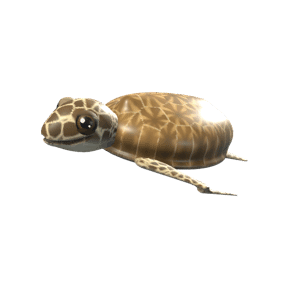
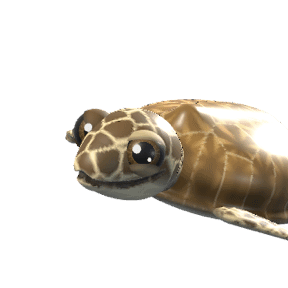
Wal und Schildkroete: sehen einen an, naeher im Kreis
Beide waren nur ~30 Grad zum Betrachter gedreht; ihre seitlichen Augen
zeigten mit der Lidoeffnung zur Seite und lasen sich als Seitenblick.
Jetzt Dreiviertelansicht, Augen weiter vorn, beim Wal groesser.

Lange Tiere wurden nach der Breite zugeschnitten und wirkten weit weg:
NAEHER in figuren_holen.py schneidet enger und zum Kopf hin zu.

vorderflaeche begrenzt den Suchstrahl (lief sonst ins Unendliche und
brach das Rendern ab).

Pruef-alles: alle 9 bestanden.

Changed region(s): [[0.125, 0.3125, 1.0, 0.8438]]

diff --git a/tools/figuren_rendern/Tiere.swift b/tools/figuren_rendern/Tiere.swift
@@ -869,11 +869,13 @@ func wal() -> (SCNNode, Float, V) {
         r: 0.030, farbe: hex("#1A2C40"), staerke: 0.8))
     let w = SCNNode(); w.addChildNode(kopfKnoten(koerper, grenze: 2.2, n: 200))
     for sz: Float in [-1, 1] {
-        seitenAuge(w, koerper, x: 0.88, y: -0.02, tiefe: 0.035, sz: sz, r: 0.085,
+        // Weiter vorn und groesser als beim echten Wal: Nur ein Auge, dessen Oeffnung zum Betrachter zeigt,
+        // liest sich als Blick zu ihm (Auftrag des Inhabers: alle sehen einen an).
+        seitenAuge(w, koerper, x: 1.04, y: 0.0, tiefe: 0.04, sz: sz, r: 0.115,
                    iris: NSColor(calibratedRed: 0.14, green: 0.11, blue: 0.10, alpha: 1), pupille: 0.7,
                    Ausdruck(oben: 0.22, unten: 0.30, funke: 1.5))
     }
-    w.eulerAngles = SCNVector3(-0.15, .pi + 0.55, 0)
+    w.eulerAngles = SCNVector3(-0.15, .pi + 1.0, 0)
     return (w, 9.0, V(-0.25, 0.0, 0))
 }
 
@@ -980,11 +982,11 @@ func schildkroete() -> (SCNNode, Float, V) {
     w.addChildNode(kopfKnoten(panzerK, grenze: 2.0, n: 200))
     w.addChildNode(kopfKnoten(hautK, grenze: 2.0, n: 200))
     for sz: Float in [-1, 1] {
-        seitenAuge(w, hautK, x: 1.42, y: 0.24, tiefe: 0.05, sz: sz, r: 0.13,
+        seitenAuge(w, hautK, x: 1.52, y: 0.21, tiefe: 0.05, sz: sz, r: 0.14,
                    iris: NSColor(calibratedRed: 0.36, green: 0.26, blue: 0.10, alpha: 1), pupille: 0.6,
                    Ausdruck(oben: 0.24, unten: 0.26, schraeg: 0.14, funke: 1.5))
     }
-    w.eulerAngles = SCNVector3(-0.35, .pi + 0.65, 0)
+    w.eulerAngles = SCNVector3(-0.35, .pi + 1.05, 0)
     return (w, 9.2, V(0.05, 0.0, 0))
 }
 

diff --git a/tools/figuren_rendern/Modell.swift b/tools/figuren_rendern/Modell.swift
@@ -220,6 +220,7 @@ func zellen(_ p: V, _ skala: Float) -> (rand: Float, wert: Float) {
 // Die Vorderflaeche eines Koerpers bei (x, y): von vorn bis zur Oberflaeche gehen.
 func vorderflaeche(_ k: Koerper, _ x: Float, _ y: Float, von: Float = 3) -> Float {
     var z = von
-    for _ in 0..<200 { let d = k.abstand(V(x, y, z)); if d < 0.001 { break }; z -= max(d, 0.002) }
-    return z
+    // Trifft der Strahl nichts, laeuft z sonst ins Unendliche (Absturz beim Umrechnen in Ganzzahlen).
+    for _ in 0..<200 { let d = k.abstand(V(x, y, z)); if d < 0.001 || z < -von { break }; z -= max(d, 0.002) }
+    return max(z, -von)
 }

diff --git a/tools/figuren_holen.py b/tools/figuren_holen.py
@@ -97,10 +97,17 @@ def sichtbar(b, pixel):
     return min(xs), max(xs) + 1, min(ys), max(ys) + 1
 
 
-def zuschneiden(b, h, pixel, rahmen):
+# Lange Tiere (Wal, Schildkroete) wirkten nach der laengeren Seite zugeschnitten "zu weit weg" (Inhaber):
+# naeher heran und zum Kopf hin verschoben; Schwanz und Hinterflossen schneidet der Kreis an.
+# (Faktor, Verschiebung x, y als Anteil des Ausschnitts; negativ = nach links/oben)
+NAEHER = {'wal': (1.55, -0.13, 0.02), 'schildkroete': (1.45, -0.25, -0.13)}
+
+
+def zuschneiden(b, h, pixel, rahmen, kennung=''):
     x0, x1, y0, y1 = rahmen
-    seite = round(max(x1 - x0, y1 - y0) / ALTER_ANTEIL)
-    mx, my = (x0 + x1) // 2, (y0 + y1) // 2
+    faktor, vx, vy = NAEHER.get(kennung, (1, 0, 0))
+    seite = round(max(x1 - x0, y1 - y0) / ALTER_ANTEIL / faktor)
+    mx, my = (x0 + x1) // 2 + round(vx * seite), (y0 + y1) // 2 + round(vy * seite)
     ax, ay = mx - seite // 2, my - seite // 2
     if ax < 0 or ay < 0 or ax + seite > b or ay + seite > h:
         sys.exit('Ausschnitt %r ragt ueber die Leinwand %dx%d — Leinwand in main.swift vergroessern.' % ((ax, ay, seite), b, h))
@@ -187,7 +194,7 @@ def main():
         if not os.path.exists(quelle):
             sys.exit('Fehlt: %s — erst tools/figuren_rendern/bauen.sh laufen lassen.' % quelle)
         with open(quelle, 'rb') as f: b, h, pixel = png_lesen(f.read())
-        b, h, pixel = zuschneiden(b, h, pixel, rahmen[kennung])
+        b, h, pixel = zuschneiden(b, h, pixel, rahmen[kennung], kennung)
         # Verkleinern ueber sips (Apples Bildwerkzeug, gute Filterung) — auf dem zugeschnittenen Bild,
         # damit jedes Tier dieselbe Groesse im Kreis bekommt.
         with tempfile.TemporaryDirectory() as tmp:

diff --git a/docs/ios-huelle-journal.md b/docs/ios-huelle-journal.md
@@ -7,12 +7,12 @@ gehoert ebenfalls hierher — nicht stillschweigend uebersprungen. Neueste Eintr
 
 ---
 
-## ÜBERGABE an die naechste Sitzung (Stand 2026-10-15, nach Runde 141)
+## ÜBERGABE an die naechste Sitzung (Stand 2026-10-15, nach Runde 142)
 
 **Lies NUR diesen Block.** Er genuegt allein; die Eintraege darunter sind Begruendungen zum
 Nachschlagen. Dazu `tools/xcode-CLAUDE.md` (liegt als `ios/App/CLAUDE.md` neben der `.xcodeproj`
 und wird von Xcode geladen) und die `CLAUDE.md` im Wurzelverzeichnis. Zuletzt vollstaendig
-durchgesehen nach Runde 141 — es gilt dieser Block, nicht aeltere Fassungen.
+durchgesehen nach Runde 142 — es gilt dieser Block, nicht aeltere Fassungen.
 
 ### Wie der Inhaber arbeitet
 
@@ -40,7 +40,8 @@ Regeln, die er gesetzt hat:
 
 | Runde | Commit | Inhalt |
 | --- | --- | --- |
-| 141 | — | Alle Tiere sehen in die Kamera (kein Blickversatz mehr); Wal als Buckelwal, Schildkroete als Suppenschildkroete, Dackel glattes Kurzhaar ohne Zunge |
+| 142 | — | Wal und Schildkroete: zum Betrachter gedreht, Augen weiter vorn, naeher zugeschnitten (`NAEHER` in `figuren_holen.py`) |
+| 141 | `f73cced` | Alle Tiere sehen in die Kamera (kein Blickversatz mehr); Wal als Buckelwal, Schildkroete als Suppenschildkroete, Dackel glattes Kurzhaar ohne Zunge |
 | 140 | `d24b541` | Schalenfell je Tier (`Fell`, `FellKarte`, Shader in `Szene.swift`) und Brauen als Wulst + Fellzeichnung (`mitBrauen`) |
 | 139 | `09693fa` | Tiere: je eigene Kopfhaltung (7 links, 5 rechts, teils geneigt), artgerechte Muender als Hautfalten (`mitMaul`), Zaehne/Zungen als `perle` |
 | 138 | `a07e240` | Schneller arbeiten: audit-i18n 4 Min. -> 1 s; Kommentare in src/ um ~30 % gekuerzt (gebaute App unveraendert) |
@@ -238,6 +239,27 @@ Branch `claude/lucenta-setup-browser-test-j6hn7f`, **nicht gepusht**, kein Pull 
 Arbeitsbaum sauber bis auf `ios/App/App.xcworkspace/xcshareddata/` (absichtlich unversioniert).
 
 ---
+
+## Runde 142 — Wal und Schildkroete sehen einen an und wirken nicht mehr weit weg
+
+**Rueckmeldung des Inhabers:** „Wal und Schildkroete gucken einen nicht an, und die sehen zu weit weg
+aus im Gegensatz zu den anderen Tieren."
+
+**Blick:** Seit Runde 141 zielen ihre Augen zwar auf die Kamera — aber sie sitzen seitlich am Kopf,
+und der Kopf war nur ~30° zum Betrachter gedreht. Die Lidoeffnung zeigte zur Seite, die Pupille
+lag an ihrem Rand: Das liest sich als Seitenblick, egal wohin der Augapfel zeigt. Jetzt: beide um
+~57–60° zum Betrachter gedreht (Dreiviertelansicht), Augen weiter vorn am Kopf; der Wal hat
+groessere Augen (0,115 statt 0,085), damit man den Blick ueberhaupt liest.
+
+**Abstand:** Der Zuschnitt richtet sich nach der laengeren Seite — bei langen Tieren die Breite,
+der Kopf wurde winzig. `NAEHER` in `figuren_holen.py`: Faktor und Verschiebung zum Kopf hin;
+Schwanz und Hinterflossen schneidet der Kreis an wie bei den Saeugetieren den Rumpf.
+Bei der Schildkroete dreimal nachgestellt (Kopf angeschnitten, dann zu hoch) — Schiedsrichter war
+die Vorschau im Kreis, nicht die Zahl.
+
+**Ein Absturz unterwegs:** `vorderflaeche` lief ins Unendliche, wenn der Strahl keine Haut traf
+(ueber dem weiter vorn sitzenden Auge der Schildkroete) → „Float value cannot be converted to
+Int32". Der Strahl ist jetzt begrenzt.
 
 ## Runde 141 — Blick in die Kamera; Wal, Schildkroete, Dackel realistischer
 
